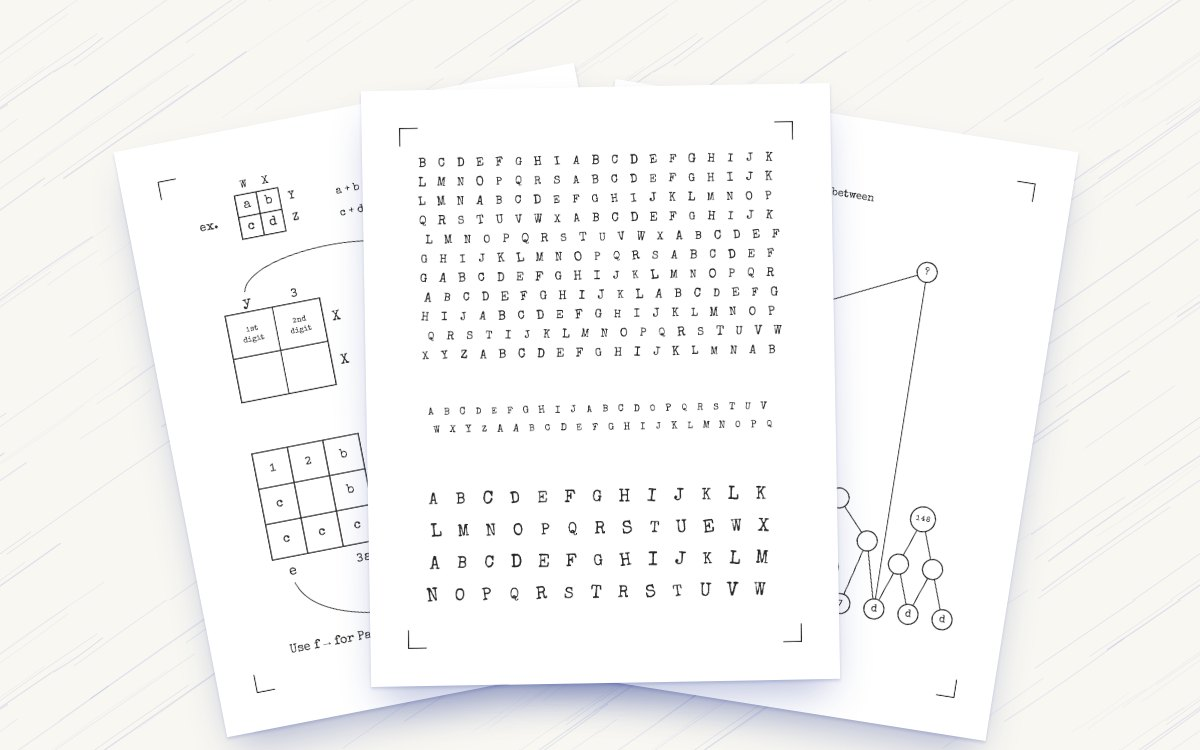
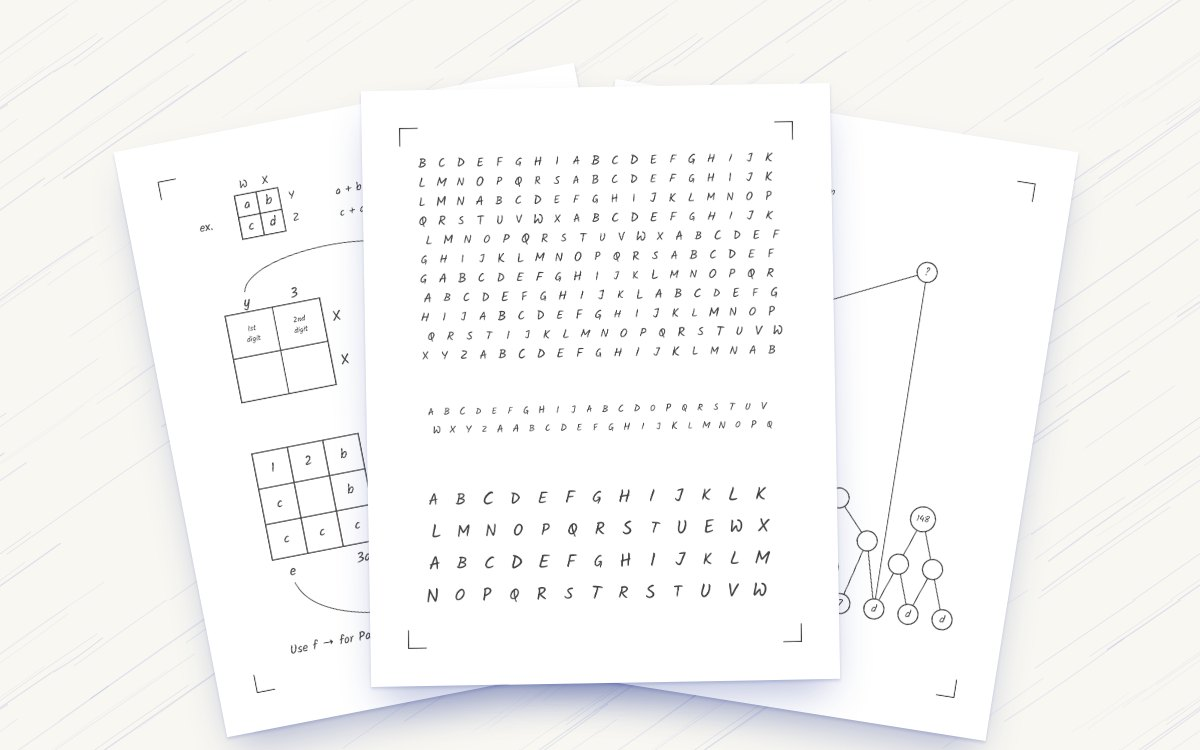
Inked style: watercolor fills instead of hatching
Washes pool darker at the edges, mottle in the middle and carry faint brush streaks,
after the water and memory scenes in Inked. Shaded squares and the river are one wash
per layer, so touching areas merge.

diff --git a/src/lib/ink.ts b/src/lib/ink.ts
@@ -1,18 +1,19 @@
-// Ink effects for one game board, sized to that board's own coordinates (boards use very
-// different viewBox scales, so shared patterns would come out far too fine or too coarse).
-// Adds hatching patterns and a watercolor-wash filter to the board's SVG and exposes them
-// to its styles.css as CSS variables on the board root:
-//   fill: var(--hatch)        light pen shading (one direction)
-//   fill: var(--crosshatch)   dense pen shading, for solid/black cells
-//   filter: var(--wash)       soft, bleeding watercolor edges
-// Hatching is drawn in the board's --paper-ink (see global.css .hatch-ink).
+// Watercolor for one game board, sized to that board's own coordinates (boards use very
+// different viewBox scales, so one shared filter would come out far too fine or coarse).
+// Adds an SVG filter to the board and exposes it to the type's styles.css as a CSS
+// variable on the board root:  filter: var(--wash)
+//
+// The look follows the washes in Inked (water, the memory vignettes): pigment pools
+// darker at the edges, the middle is mottled with lighter blotches, faint brush streaks
+// run through it, and the edge bleeds a little past the shape. Give the element a plain
+// fill color; the filter does the rest.
 const NS = "http://www.w3.org/2000/svg";
 const SHOWN_WIDTH = 600;   // boards are shown about this many CSS pixels wide
 let boards = 0;
 
 export function addInk(svg: SVGSVGElement, root: HTMLElement) {
   const u = svg.viewBox.baseVal.width / SHOWN_WIDTH || 1;   // board units per pixel
-  const id = `ink${++boards}`;
+  const id = `ink${++boards}-wash`;
   const el = (tag: string, attrs: Record<string, string | number>, parent: Element) => {
     const n = document.createElementNS(NS, tag);
     for (const k in attrs) n.setAttribute(k, String(attrs[k]));
@@ -21,24 +22,30 @@ export function addInk(svg: SVGSVGElement, root: HTMLElement) {
   };
   const defs = el("defs", {}, svg);
   svg.prepend(defs);
+  const f = el("filter", { id, x: "-15%", y: "-15%", width: "130%", height: "130%", "color-interpolation-filters": "sRGB" }, defs);
+  const step = (tag: string, attrs: Record<string, string | number>) => el(tag, attrs, f);
+  const darker = (k: number, a = 1) => `${k} 0 0 0 0  0 ${k} 0 0 0  0 0 ${k} 0 0  0 0 0 ${a} 0`;
 
-  const gap = 6 * u;
-  const pattern = (name: string, lines: [number, number, number, number, number][]) => {
-    const p = el("pattern", { id: `${id}-${name}`, width: gap, height: gap, patternUnits: "userSpaceOnUse", patternTransform: "rotate(-35)" }, defs);
-    for (const [x1, y1, x2, y2, w] of lines) el("line", { class: "hatch-ink", x1, y1, x2, y2, "stroke-width": w * u }, p);
-  };
-  pattern("hatch", [[0, gap / 2, gap, gap / 2, 1.4]]);
-  pattern("crosshatch", [[0, gap / 2, gap, gap / 2, 1.7], [gap / 2, 0, gap / 2, gap, 1.1]]);
+  // noise: soft blotches, and long horizontal brush streaks
+  step("feTurbulence", { type: "fractalNoise", baseFrequency: 0.025 / u, numOctaves: 3, seed: 3, result: "blot" });
+  step("feTurbulence", { type: "fractalNoise", baseFrequency: `${0.006 / u} ${0.09 / u}`, numOctaves: 2, seed: 8, result: "streak" });
+  // the paint bleeds a little past the shape
+  step("feDisplacementMap", { in: "SourceGraphic", in2: "blot", scale: 5 * u, xChannelSelector: "R", yChannelSelector: "G", result: "shape" });
+  // pigment pools along the edge: the shape minus a blurred, shrunken copy of itself
+  step("feMorphology", { in: "shape", operator: "erode", radius: 4 * u, result: "core0" });
+  step("feGaussianBlur", { in: "core0", stdDeviation: 3.5 * u, result: "core" });
+  step("feComposite", { in: "shape", in2: "core", operator: "out", result: "rim0" });
+  step("feColorMatrix", { in: "rim0", type: "matrix", values: darker(0.62), result: "rim" });
+  // lighter blotches where the water pushed the pigment away
+  step("feColorMatrix", { in: "blot", type: "matrix", values: "0 0 0 0 1  0 0 0 0 1  0 0 0 0 1  0.75 0 0 0 -0.33", result: "light0" });
+  step("feComposite", { in: "light0", in2: "shape", operator: "in", result: "light" });
+  // brush streaks a shade darker than the paint
+  step("feColorMatrix", { in: "shape", type: "matrix", values: darker(0.8), result: "deep" });
+  step("feColorMatrix", { in: "streak", type: "matrix", values: "0 0 0 0 0  0 0 0 0 0  0 0 0 0 0  1.6 0 0 0 -0.85", result: "streakA" });
+  step("feComposite", { in: "deep", in2: "streakA", operator: "in", result: "streaks" });
+  const merge = step("feMerge", { result: "paint" });
+  for (const n of ["shape", "light", "streaks", "rim"]) el("feMergeNode", { in: n }, merge);
+  step("feGaussianBlur", { in: "paint", stdDeviation: 0.5 * u });
 
-  const wash = el("filter", { id: `${id}-wash`, x: "-8%", y: "-8%", width: "116%", height: "116%" }, defs);
-  el("feTurbulence", { type: "fractalNoise", baseFrequency: `${0.02 / u} ${0.05 / u}`, numOctaves: 3, seed: 9, result: "noise" }, wash);
-  el("feDisplacementMap", { in: "SourceGraphic", in2: "noise", scale: 7 * u, xChannelSelector: "R", yChannelSelector: "G", result: "bled" }, wash);
-  el("feGaussianBlur", { in: "bled", stdDeviation: 0.8 * u, result: "soft" }, wash);
-  const grain = el("feComponentTransfer", { in: "noise", result: "grain" }, wash);
-  el("feFuncA", { type: "linear", slope: 0.6, intercept: 0.55 }, grain);
-  el("feComposite", { in: "soft", in2: "grain", operator: "in" }, wash);
-
-  root.style.setProperty("--hatch", `url(#${id}-hatch)`);
-  root.style.setProperty("--crosshatch", `url(#${id}-crosshatch)`);
-  root.style.setProperty("--wash", `url(#${id}-wash)`);
+  root.style.setProperty("--wash", `url(#${id})`);
 }

diff --git a/src/game-types/mosaic/styles.css b/src/game-types/mosaic/styles.css
@@ -1,5 +1,5 @@
 /* Mosaic game type. Global but scoped under .mosaic, because game.ts builds the board. */
-.mosaic { --fill: var(--crosshatch); --wrong: color-mix(in srgb, var(--wash-red) 45%, #fff); display: grid; gap: 16px; }
+.mosaic { --fill: color-mix(in srgb, var(--paper-ink) 80%, #fff); --wrong: color-mix(in srgb, var(--wash-red) 45%, #fff); display: grid; gap: 16px; }
 .mosaic .bar { display: flex; flex-wrap: wrap; align-items: center; justify-content: space-between; gap: 10px 16px; }
 .mosaic .status { flex: 1 1 240px; min-width: 0; font-family: var(--mono); font-size: 14px; line-height: 1.3; }
 .mosaic .status.good { color: var(--good); }
@@ -14,7 +14,10 @@
 }
 .mosaic svg { display: block; width: 100%; height: auto; touch-action: none; user-select: none; -webkit-user-select: none; }
 
-.mosaic .cell { fill: #fff; transition: fill .12s; }
+/* Empty cells are clear (the sheet is white paper), so the watercolor on the whole layer pools
+   into one wash per patch of shaded cells, with its darker rim only around the patch. */
+.mosaic .cells { filter: var(--wash); }
+.mosaic .cell { fill: transparent; transition: fill .12s; }
 .mosaic .cell.filled { fill: var(--fill); }
 .mosaic .cell.wrong { fill: var(--wrong); }
 .mosaic .x { fill: none; stroke: transparent; stroke-width: 2.2; stroke-linecap: round; pointer-events: none; }
@@ -29,14 +32,14 @@
 }
 .mosaic .clue.done { fill: color-mix(in srgb, var(--paper-ink) 35%, transparent); text-decoration: line-through; }
 .mosaic .hint-line { fill: color-mix(in srgb, var(--wash-yellow) 25%, transparent); stroke: var(--wash-orange); stroke-width: 2; pointer-events: none; }
-.mosaic .hint-fill { fill: var(--hatch); opacity: .55; pointer-events: none; }
+.mosaic .hint-fill { fill: var(--fill); opacity: .4; filter: var(--wash); pointer-events: none; }
 .mosaic .hint-x { fill: none; stroke: color-mix(in srgb, var(--paper-ink) 50%, transparent); stroke-width: 2.4; stroke-linecap: round; pointer-events: none; }
 
 .mosaic .prefs { display: flex; flex-wrap: wrap; gap: 6px 18px; font-size: 14px; color: var(--muted); justify-content: center; }
 .mosaic .prefs label { display: inline-flex; gap: 6px; align-items: center; cursor: pointer; }
 
 /* the reveal: cells fade to the picture's colors in a diagonal wave, clues and grid fade out */
-.mosaic.revealed .cell { fill: var(--reveal); filter: var(--wash); transition: fill .5s ease var(--delay); }
+.mosaic.revealed .cell { fill: var(--reveal); transition: fill .5s ease var(--delay); }
 .mosaic.revealed .x, .mosaic.revealed .line { opacity: 0; transition: opacity .6s; }
 .mosaic.revealed .clues { opacity: 0; transition: opacity .6s; }
 .mosaic.revealed .frame { stroke-width: 4; }

diff --git a/src/game-types/ryb/styles.css b/src/game-types/ryb/styles.css
@@ -3,7 +3,7 @@
   --r: #ed1c24;          /* 1 red    \                              */
   --y: #fff200;          /* 2 yellow  } the original RYB's primaries */
   --b: #00aeef;          /* 3 blue   /                              */
-  --unpainted: var(--hatch);  /* pieces start as pen hatching on the paper */
+  --unpainted: color-mix(in srgb, var(--paper-ink) 26%, #fff);  /* pieces start as a pale ink wash */
   display: grid; gap: 18px;
 }
 .ryb .bar { display: flex; flex-wrap: wrap; align-items: center; gap: 10px 16px; }
@@ -31,9 +31,10 @@
 }
 .ryb svg { display: block; width: 100%; height: auto; user-select: none; -webkit-user-select: none; }
 
-.ryb .piece { fill: var(--unpainted); stroke: var(--paper-ink); stroke-width: .5%; stroke-linejoin: round; cursor: pointer; }
-.ryb .piece:hover { fill: var(--crosshatch); }
-.ryb .piece.c1, .ryb .piece.c2, .ryb .piece.c3 { cursor: default; filter: var(--wash); }
+.ryb .piece { fill: var(--unpainted); cursor: pointer; filter: var(--wash); }
+.ryb .piece:hover { fill: color-mix(in srgb, var(--paper-ink) 42%, #fff); }
+.ryb .edge { fill: none; stroke: var(--paper-ink); stroke-width: .5%; stroke-linejoin: round; pointer-events: none; }
+.ryb .piece.c1, .ryb .piece.c2, .ryb .piece.c3 { cursor: default; }
 .ryb .piece.c1 { fill: var(--r); }
 .ryb .piece.c2 { fill: var(--y); }
 .ryb .piece.c3 { fill: var(--b); }

diff --git a/src/game-types/lazy-river/game.ts b/src/game-types/lazy-river/game.ts
@@ -49,7 +49,7 @@ export const createLazyRiver = (config: LazyRiverClientConfig): MountGame => (ro
   const x0 = (c: number) => PAD + c * S, y0 = (r: number) => PAD + r * S;
   const cx = (c: number) => x0(c) + S / 2, cy = (r: number) => y0(r) + S / 2;
 
-  const gCells = el("g", {}), gGrid = el("g", {}), gWalls = el("g", {}), gMarks = el("g", {}), gRiver = el("g", {});
+  const gCells = el("g", {}), gGrid = el("g", {}), gWalls = el("g", {}), gMarks = el("g", {}), gRiver = el("g", { class: "water" });
   const cellEls: Element[][] = [];
   for (let r = 0; r < H; r++) {
     cellEls.push([]);
@@ -87,7 +87,7 @@ export const createLazyRiver = (config: LazyRiverClientConfig): MountGame => (ro
     }
     // a dot on each cell the river passes through, so joints look rounded
     for (let r = 0; r < H; r++) for (let c = 0; c < W; c++)
-      if (d[r][c]) el("circle", { class: "joint" + (solved ? " done" : ""), cx: cx(c), cy: cy(r), r: 4.5 }, gRiver);
+      if (d[r][c]) el("circle", { class: "joint" + (solved ? " done" : ""), cx: cx(c), cy: cy(r), r: 6.5 }, gRiver);
     for (const k of xs) {
       const [a, b] = parse(k);
       const mx = (cx(a[1]) + cx(b[1])) / 2, my = (cy(a[0]) + cy(b[0])) / 2, s = 5;

diff --git a/src/game-types/lazy-river/styles.css b/src/game-types/lazy-river/styles.css
@@ -18,12 +18,13 @@
 
 .lazy-river .cell { fill: #fff; }
 .lazy-river .cell.alt { fill: color-mix(in srgb, var(--paper-ink) 4%, #fff); }
-.lazy-river .cell.black { fill: var(--crosshatch); }
+.lazy-river .cell.black { fill: color-mix(in srgb, var(--paper-ink) 75%, #fff); filter: var(--wash); }
 .lazy-river .cell.bad { fill: color-mix(in srgb, var(--wash-red) 35%, #fff); }
 .lazy-river .gridline { stroke: color-mix(in srgb, var(--paper-ink) 28%, transparent); stroke-width: 1; }
 .lazy-river .frame { fill: none; stroke: var(--paper-ink); stroke-width: 3; }
 .lazy-river .wall { stroke: var(--paper-ink); stroke-width: 6; stroke-linecap: round; }
-.lazy-river .river { stroke: var(--water); stroke-width: 11; stroke-linecap: round; }
+.lazy-river .water { filter: var(--wash); }   /* the river is one wash, not separate strokes */
+.lazy-river .river { stroke: var(--water); stroke-width: 13; stroke-linecap: round; }
 .lazy-river .joint { fill: var(--water); }
 .lazy-river .river.done { stroke: var(--water-done); }
 .lazy-river .joint.done { fill: var(--water-done); }

diff --git a/src/styles/global.css b/src/styles/global.css
@@ -1,8 +1,8 @@
 /* Site-wide tokens and base styles. Every page gets these through layouts/Base.astro.
    Look: ballpoint pen on white paper, after the game Inked. One ink color per game type
    (each type sets --paper-ink on its board), pale pen streaks behind everything, and
-   watercolor washes for color. Boards get a pen wobble (#pen, in Base.astro) and their own
-   hatching and wash (src/lib/ink.ts). */
+   watercolor washes for every fill. Boards get a pen wobble (#pen, in Base.astro) and their
+   own watercolor filter (src/lib/ink.ts). */
 :root {
   --bg: #f8f7f2;          /* paper */
   --panel: #ffffff;
@@ -57,7 +57,6 @@ button:focus-visible, a:focus-visible, input:focus-visible { outline: 2px dashed
 
 /* The #pen filter lives in an invisible SVG at the top of <body>. */
 .ink-defs { position: absolute; width: 0; height: 0; overflow: hidden; }
-.hatch-ink { stroke: var(--paper-ink); }
 
 .topnav {
   position: sticky; top: 0; z-index: 10;

diff --git a/src/game-types/ryb/game.ts b/src/game-types/ryb/game.ts
@@ -65,9 +65,10 @@ export const createRyb = (config: RybClientConfig): MountGame => (root, host) =>
 
   // ---- board ----
   const span = Number(config.viewBox.split(" ")[2]);
-  const gPieces = el("g", {}), gDots = el("g", {});
-  const shapeEls = pieces.map((p, i) =>
-    el("polygon", { class: "piece", points: p.points.map((pt) => pt.join(",")).join(" "), "data-i": i }, gPieces));
+  const gPieces = el("g", {}), gEdges = el("g", { class: "edges" }), gDots = el("g", {});
+  const pointsOf = (p: (typeof pieces)[number]) => p.points.map((pt) => pt.join(",")).join(" ");
+  const shapeEls = pieces.map((p, i) => el("polygon", { class: "piece", points: pointsOf(p), "data-i": i }, gPieces));
+  for (const p of pieces) el("polygon", { class: "edge", points: pointsOf(p) }, gEdges);   // pen outlines, drawn over the paint
   const dotGroups = pieces.map((p) => {
     const g = el("g", { class: "dots" }, gDots);
     const n = p.dots.length;

diff --git a/src/game-types/mosaic/game.ts b/src/game-types/mosaic/game.ts
@@ -42,7 +42,7 @@ export const createMosaic = (config: MosaicClientConfig): MountGame => (root, ho
   };
   const X = (c: number) => CW + c * S, Y = (r: number) => CH + r * S;
 
-  const gClues = el("g", { class: "clues" }), gGrid = el("g", {}), gLines = el("g", {}), gHint = el("g", {});
+  const gClues = el("g", { class: "clues" }), gGrid = el("g", { class: "cells" }), gLines = el("g", {}), gHint = el("g", {});
   const cellEls: Element[][] = [], xEls: Element[][] = [];
   for (let r = 0; r < H; r++) {
     cellEls.push([]); xEls.push([]);

diff --git a/puzzles/covers.py b/puzzles/covers.py
@@ -33,17 +33,33 @@ PAPER_STREAKS = (ROOT / "public" / "paper.svg").as_uri()
 _ids = 0
 
 
-def hatch(ink: str, unit: float, cross: bool = False):
-    """(defs, fill) for pen hatching drawn in `ink`, spaced for a board of `unit` units per pixel."""
+def wash(u: float):
+    """(defs, filter) for the site's watercolor (src/lib/ink.ts), for a board of `u` units per pixel."""
     global _ids
     _ids += 1
-    g = 6 * unit
-    lines = f'<line x1="0" y1="{g / 2}" x2="{g}" y2="{g / 2}" stroke="{ink}" stroke-width="{1.5 * unit}"/>'
-    if cross:
-        lines += f'<line x1="{g / 2}" y1="0" x2="{g / 2}" y2="{g}" stroke="{ink}" stroke-width="{1.1 * unit}"/>'
-    pid = f"h{_ids}"
-    return (f'<defs><pattern id="{pid}" width="{g}" height="{g}" patternUnits="userSpaceOnUse" '
-            f'patternTransform="rotate(-35)">{lines}</pattern></defs>', f"url(#{pid})")
+    fid = f"wash{_ids}"
+    dark = lambda k: f"{k} 0 0 0 0  0 {k} 0 0 0  0 0 {k} 0 0  0 0 0 1 0"
+    return (f'''<defs><filter id="{fid}" x="-15%" y="-15%" width="130%" height="130%" color-interpolation-filters="sRGB">
+      <feTurbulence type="fractalNoise" baseFrequency="{0.025 / u}" numOctaves="3" seed="3" result="blot"/>
+      <feTurbulence type="fractalNoise" baseFrequency="{0.006 / u} {0.09 / u}" numOctaves="2" seed="8" result="streak"/>
+      <feDisplacementMap in="SourceGraphic" in2="blot" scale="{5 * u}" xChannelSelector="R" yChannelSelector="G" result="shape"/>
+      <feMorphology in="shape" operator="erode" radius="{4 * u}" result="core0"/>
+      <feGaussianBlur in="core0" stdDeviation="{3.5 * u}" result="core"/>
+      <feComposite in="shape" in2="core" operator="out" result="rim0"/>
+      <feColorMatrix in="rim0" type="matrix" values="{dark(0.62)}" result="rim"/>
+      <feColorMatrix in="blot" type="matrix" values="0 0 0 0 1  0 0 0 0 1  0 0 0 0 1  0.75 0 0 0 -0.33" result="light0"/>
+      <feComposite in="light0" in2="shape" operator="in" result="light"/>
+      <feColorMatrix in="shape" type="matrix" values="{dark(0.8)}" result="deep"/>
+      <feColorMatrix in="streak" type="matrix" values="0 0 0 0 0  0 0 0 0 0  0 0 0 0 0  1.6 0 0 0 -0.85" result="streakA"/>
+      <feComposite in="deep" in2="streakA" operator="in" result="streaks"/>
+      <feMerge result="paint"><feMergeNode in="shape"/><feMergeNode in="light"/><feMergeNode in="streaks"/><feMergeNode in="rim"/></feMerge>
+      <feGaussianBlur in="paint" stdDeviation="{0.5 * u}"/></filter></defs>''', f"url(#{fid})")
+
+
+def tint(ink: str, k: float) -> str:
+    """`ink` mixed with white: k = 1 is the ink itself."""
+    rgb = [int(ink[i:i + 2], 16) for i in (1, 3, 5)]
+    return "#" + "".join(f"{round(255 - (255 - v) * k):02x}" for v in rgb)
 
 
 # ---- number maze ----
@@ -105,12 +121,14 @@ def ryb_config(n: int) -> dict:
 def ryb_svg(cfg: dict, painted: bool) -> str:
     xs = [p[0] for pc in cfg["pieces"] for p in pc["points"]]
     span = max(xs) - min(xs)
-    defs, hatched = hatch(RYB_INK, span / 400)
-    out = [defs]
+    defs, wc = wash(span / 400)
+    out, edges = [defs], []
     for i, pc in enumerate(cfg["pieces"]):
-        fill = FILL[cfg["solution"][i]] if painted else hatched
+        fill = FILL[cfg["solution"][i]] if painted else tint(RYB_INK, 0.26)
         pts = " ".join(f"{x},{y}" for x, y in pc["points"])
-        out.append(f'<polygon points="{pts}" fill="{fill}" stroke="{RYB_INK}" stroke-width="{span * 0.005}" stroke-linejoin="round"/>')
+        out.append(f'<polygon points="{pts}" fill="{fill}" filter="{wc}"/>')
+        edges.append(f'<polygon points="{pts}" fill="none" stroke="{RYB_INK}" stroke-width="{span * 0.005}" stroke-linejoin="round"/>')
+    out += edges
     for pc in cfg["pieces"]:
         dots = pc["dots"]
         if not dots or (pc["hidden"] and not painted):
@@ -143,12 +161,14 @@ def river_svg(cfg: dict, solved: bool):
     H, W, S, P = len(grid), len(grid[0]), 44, 12
     x0 = lambda c: P + c * S
     y0 = lambda r: P + r * S
-    defs, rock = hatch(RIVER_INK, 1, cross=True)
+    defs, wc = wash(1)
     out = [defs]
     for r in range(H):
         for c in range(W):
-            fill = rock if grid[r][c] == "#" else ("#f5f8f5" if (r + c) % 2 else "#fff")
+            fill = "#f5f8f5" if (r + c) % 2 else "#fff"
             out.append(f'<rect x="{x0(c)}" y="{y0(r)}" width="{S}" height="{S}" fill="{fill}"/>')
+            if grid[r][c] == "#":
+                out.append(f'<rect x="{x0(c)}" y="{y0(r)}" width="{S}" height="{S}" fill="{tint(RIVER_INK, 0.75)}" filter="{wc}"/>')
     for r in range(H + 1):
         out.append(f'<line x1="{P}" y1="{y0(r)}" x2="{P + W * S}" y2="{y0(r)}" stroke="{RIVER_INK}" stroke-opacity=".28"/>')
     for c in range(W + 1):

diff --git a/ARCHITECTURE.md b/ARCHITECTURE.md
@@ -69,7 +69,7 @@ Actions runs it on every push to `main`.
 | `src/layouts/GameShell.astro` | Frame for game pages: back link, title, game, then directions. |
 | `src/styles/global.css` | Color and font tokens (light and dark), base styles, shared `.btn`, `.rules`. |
 | `src/lib/game.ts` | The game interface (`GameHost`, `MountGame`, `createHost`). |
-| `src/lib/ink.ts` | Pen hatching and watercolor for a board's SVG, at its scale (see Look). |
+| `src/lib/ink.ts` | The watercolor filter for a board's SVG, at its scale (see Look). |
 | `src/lib/paths.ts`, `src/lib/hash.ts`, `src/lib/progress.ts` | `url()` (builds links from the site root); `sha256()`; which games the player has finished. |
 | `src/components/Check.astro` | The animated check mark for finished games. |
 | `src/lib/account.ts`, `src/components/Account.astro` | Player login (name + PIN) and cloud sync of progress. |
@@ -192,10 +192,12 @@ After the game Inked: ballpoint pen on white paper. The page has pale pen streak
   `--paper-ink` on the page): blue for the escape room and mazes, black for Three
   Coats, green for Round the Bend, red for Picture Squares.
 - Every board's SVG gets a slight pen wobble (`#pen` filter in `Base.astro`).
-- Shaded areas are pen hatching, and color is watercolor. Both are added per board at
-  its own scale by `addInk()` in `src/lib/ink.ts`, which a type's `game.ts` calls
-  after setting the viewBox; styles use `var(--hatch)`, `var(--crosshatch)` and
-  `var(--wash)`.
+- Every fill is watercolor, after the washes in Inked: pigment pools darker at the
+  edges, the middle is mottled, faint brush streaks run through it and the edge bleeds.
+  `addInk()` in `src/lib/ink.ts` adds the filter to a board at its own scale (a type's
+  `game.ts` calls it after setting the viewBox); styles use `filter: var(--wash)` on a
+  plain fill color. Put it on a whole layer, not each piece, when touching areas should
+  pool into one wash (Picture Squares' cells, Round the Bend's river).
 - Printed sheets and home-page covers (`puzzles/covers.py`) use the same inks and fonts.
 
 ## The game interface
